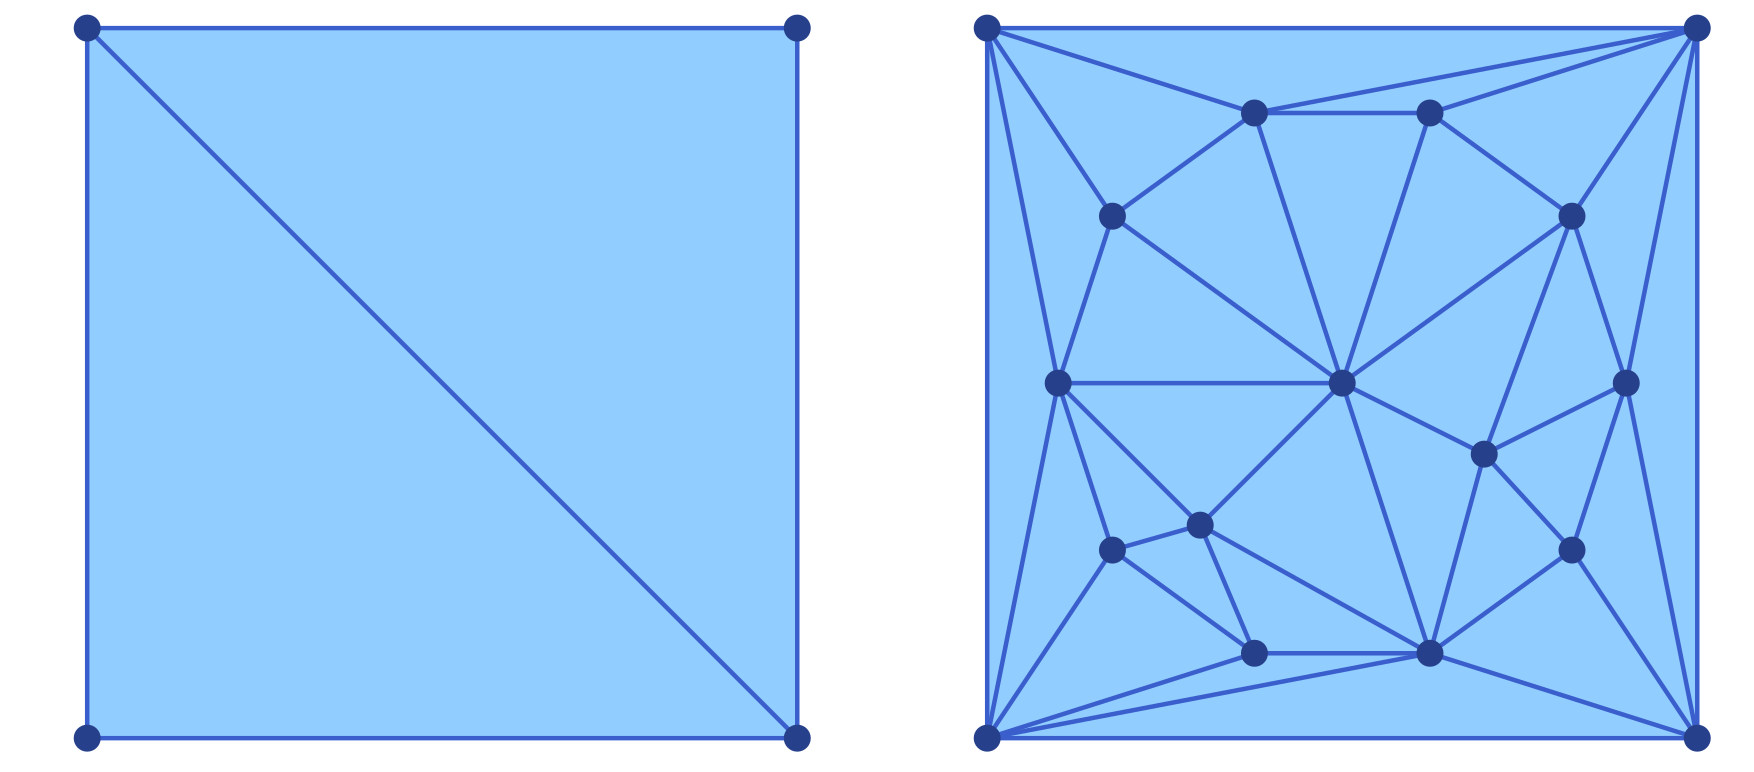
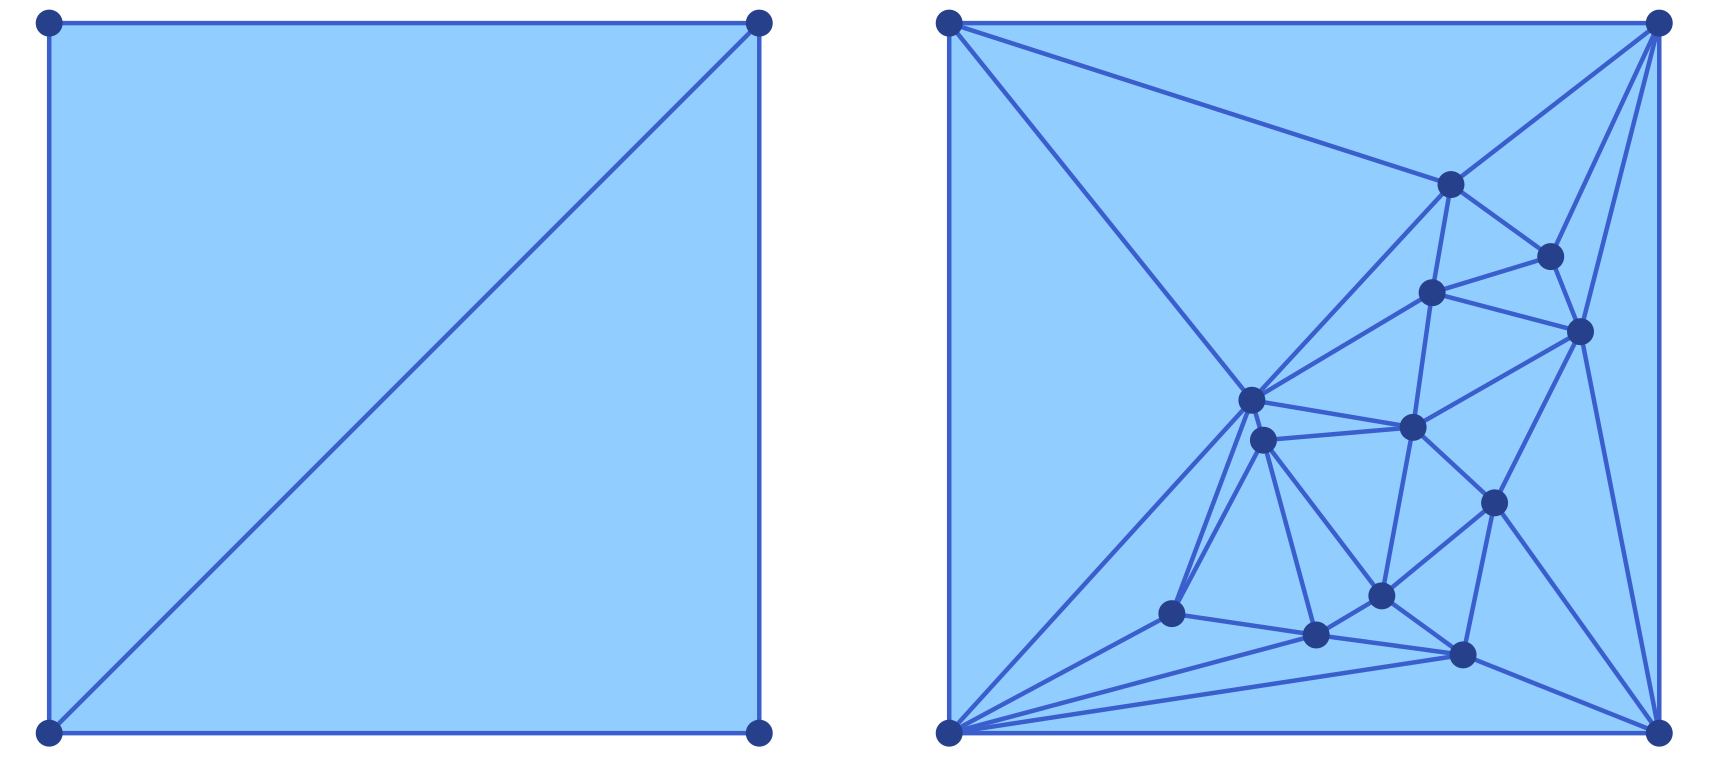
added delaunay_points_add_nodes

diff --git a/docs/src/man/extensions.md b/docs/src/man/extensions.md
@@ -42,8 +42,8 @@ using DelaunayTriangulation
 using ConleyDynamics
 
 points, bndcurve = delaunay_points_bnd_rectangle([-5, -5], [5, 5])
-tri = triangulate(points; boundary_nodes = bndcurve)
-sc  = delaunay_to_simplicial(tri)
+tri1 = triangulate(points; boundary_nodes = bndcurve)
+sc1  = delaunay_to_simplicial(tri1)
 ```
 
 This already produces a valid `EuclideanComplex` — a triangulated filled
@@ -51,6 +51,36 @@ rectangle without any internal constraints. It is shown in the left panel
 of the associated figure.
 
 ![Two sample Delaunay triangulations of a square](img/delaunayext1.png)
+
+### Adding Interior Nodes
+
+A finer triangulation of the underlying rectangle can be achieved by
+adding interior nodes to the list of points describing the boundary.
+This can be achieved with the function `delaunay_points_add_nodes`.
+For example, we can add twelve interior nodes to the above square
+using the following commands:
+
+```julia
+newpoints = [-4 .+ 8 .* rand(2) for k in 1:12]   # 12 random points
+points    = delaunay_points_add_nodes(points, newpoints)
+
+tri2 = triangulate(points; boundary_nodes = bndcurve)
+sc2  = delaunay_to_simplicial(tri2)
+```
+
+This leads to the triangulation shown in the right panel of the above
+figure. Note that the new triangulation makes use of all new interior
+nodes, as well as the corners of the squares. The figure was created
+using the commands
+
+```julia
+using Plots
+p1 = plot_simplicial(sc1)
+p2 = plot_simplicial(sc2)
+pcombined = plot(p1, p2, layout=(1,2))
+plot!(pcombined, dpi=300)
+savefig(pcombined, "delaunayext1.png")
+```
 
 ### Adding Constraint Curves
 
@@ -91,22 +121,77 @@ cut = [[-2.0, -2.0], [0.0, 0.0], [2.0, -1.0]]
 points, segments = delaunay_points_add_segment(points, circle)          # 2-arg form
 points, segments = delaunay_points_add_segment(points, segments, cut)   # 3-arg form
 
-tri = triangulate(points; boundary_nodes = bndcurve, segments = segments)
-sc  = delaunay_to_simplicial(tri)
+tri1 = triangulate(points; boundary_nodes = bndcurve, segments = segments)
+sc1  = delaunay_to_simplicial(tri1)
 ```
 
-The resulting triangulation is shown in the right panel of the above figure.
+![Delaunay triangulations with constraint curves](img/delaunayext2.png)
+
+The resulting Delaunay triangulation is shown in the left panel of the
+figure. In addition to the generated mesh, it also shows the two contraint 
+curves in red and green. This plot was generated using the following
+commands:
+
+```julia
+using Plots
+
+cirx = [pt[1] for pt in circle]
+ciry = [pt[2] for pt in circle]
+cutx = [pt[1] for pt in cut]
+cuty = [pt[2] for pt in cut]
+
+p1 = plot_simplicial(sc1)
+plot!(p1, cirx, ciry, linewidth=3, color=:red)
+plot!(p1, cutx, cuty, linewidth=3, color=:green)
+```
+
+We would like to point out that adding constraint curves to a triangulation
+has to be done with care. More precisely, it is up to the user to ensure
+that the **curves do not intersect each other** and that each curve is
+**without interior self-intersections**. If these assumptions are not
+satisfied, then
+[DelaunayTriangulation.jl](https://github.com/JuliaGeometry/DelaunayTriangulation.jl)
+will automatically remove some of the constraints. Consider for the
+example the following additional commands:
+
+```julia
+# Open polygonal cut inside the domain
+badcut = [[1.0, 1.0], [4.0, 4.0]]
+points, segments = delaunay_points_add_segment(points, segments, badcut)
+
+tri2 = triangulate(points; boundary_nodes = bndcurve, segments = segments)
+sc2  = delaunay_to_simplicial(tri2)
+
+badx = [pt[1] for pt in badcut]
+bady = [pt[2] for pt in badcut]
+
+p2 = plot_simplicial(sc2)
+plot!(p2, cirx, ciry, linewidth=3, color=:red)
+plot!(p2, cutx, cuty, linewidth=3, color=:green)
+plot!(p2, badx, bady, linewidth=2, color=:yellow, linestyle=:dash)
+
+pcombined12 = plot(p1, p2, layout=(1,2))
+plot!(pcombined12, dpi=300)
+savefig(pcombined12, "delaunayext2.png")
+```
+
+Clearly the added cut `badcut` intersects the circular constraint `circle`
+from before. The mesh generated by `DelaunayTriangulation.jl` is shown in
+the right panel of the above figure. Notice that the third constraint is
+not respected by the triangulation, even though the two vertices from
+the constraint have been added to the interior nodes.
 
 ### Mesh Refinement
 
-After `triangulate`, `DelaunayTriangulation.jl` provides `refine!` to
-improve triangle quality. Passing `max_area` as a fraction of the total
-domain area and `min_angle` in degrees is a practical starting point:
+After `triangulate`, `DelaunayTriangulation.jl` provides the function
+`refine!` to improve the quality of the triangulation. Passing `max_area`
+as a fraction of the total domain area and `min_angle` in degrees is a
+practical starting point:
 
 ```julia
-triarea = get_area(tri)
-refine!(tri; max_area = 0.01 * triarea, min_angle = 25.0)
-sc = delaunay_to_simplicial(tri)
+triarea1 = get_area(tri1)
+refine!(tri1; max_area = 0.03 * triarea1, min_angle = 30.0)
+sc3 = delaunay_to_simplicial(tri1)
 ```
 
 The refined triangulation is then converted to a `EuclideanComplex` in the
@@ -115,7 +200,36 @@ care. If one chooses an angle larger than `30` then it is no longer certain
 that an appropriate triangulation can be generated. The resulting triangulation
 is shown in the left panel of the next figure.
 
-![Two refined Delaunay triangulations of a square](img/delaunayext2.png)
+![Two refined Delaunay triangulations of a square](img/delaunayext3.png)
+
+We can also refine the second mesh from above, the one with the 
+bad constraint curve `badcut`:
+
+```julia
+triarea2 = get_area(tri2)
+refine!(tri2; max_area = 0.007 * triarea2, min_angle = 25.0)
+sc4 = delaunay_to_simplicial(tri2)
+```
+
+The resulting triangulation is shown in the right panel of the above figure.
+Notice that while the nodes determining `badcut` are still part of the
+triangulation, the edge is not -- just as before. The above figure
+was created using the following commands:
+
+```julia
+p3 = plot_simplicial(sc3)
+plot!(p3, cirx, ciry, linewidth=3, color=:red)
+plot!(p3, cutx, cuty, linewidth=3, color=:green)
+
+p4 = plot_simplicial(sc4)
+plot!(p4, cirx, ciry, linewidth=3, color=:red)
+plot!(p4, cutx, cuty, linewidth=3, color=:green)
+plot!(p4, badx, bady, linewidth=2, color=:yellow, linestyle=:dash)
+
+pcombined34 = plot(p3, p4, layout=(1,2))
+plot!(pcombined34, dpi=300)
+savefig(pcombined34, "delaunayext3.png")
+```
 
 ### Complete Example
 
@@ -123,32 +237,52 @@ The following self-contained snippet combines all three steps — bounding
 rectangle, two circular constraints, mesh refinement, and conversion:
 
 ```julia
+using Plots
 using DelaunayTriangulation
 using ConleyDynamics
 
 # Bounding box
 points, bndcurve = delaunay_points_bnd_rectangle([-5, -5], [5, 5])
 
-# Outer ring (closed, 50 segments)
-n1    = 50
+# Outer ring (closed, 30 segments)
+n1    = 30
 th1   = range(0, 2*pi, length = n1+1)
 ring  = [[4.0 * cos(t), 4.0 * sin(t)] for t in th1]
+ringx = [pt[1] for pt in ring]
+ringy = [pt[2] for pt in ring]
 points, segments = delaunay_points_add_segment(points, ring)
 
-# Inner elliptical disc (closed, 35 segments)
-n2    = 35
+# Inner elliptical disc (closed, 15 segments)
+n2    = 15
 th2   = range(0, 2*pi, length = n2+1)
 disc  = [[0.5 + 3.0 * cos(t), 2.0 * sin(t)] for t in th2]
+discx = [pt[1] for pt in disc]
+discy = [pt[2] for pt in disc]
 points, segments = delaunay_points_add_segment(points, segments, disc)
 
 # Triangulate, refine, and convert
 tri = triangulate(points; boundary_nodes = bndcurve, segments = segments)
+sc1 = delaunay_to_simplicial(tri)
+
 triarea = get_area(tri)
-refine!(tri; max_area = 0.05 * triarea, min_angle = 20.0)
-sc = delaunay_to_simplicial(tri)
+refine!(tri; max_area = 0.005 * triarea, min_angle = 27.0)
+sc2 = delaunay_to_simplicial(tri)
+
+# Plot the triangulations
+p1 = plot_simplicial(sc1)
+plot!(p1, ringx, ringy, color=:red)
+plot!(p1, discx, discy, color=:green)
+
+p2 = plot_simplicial(sc2)
+plot!(p2, ringx, ringy, color=:red)
+plot!(p2, discx, discy, color=:green)
+
+pcombined = plot(p1, p2, layout=(1,2))
+plot!(pcombined, dpi=300)
+savefig(pcombined, "delaunayext4.png")
 ```
 
-The resulting Delaunay triangulation is shown in the right panel of the above
-figure. Note that the constrained edges in this refinement are still clearly
-visible.
+The resulting Delaunay triangulations are shown in the next figure.
+
+![A complete Delaunay triangulation example](img/delaunayext4.png)
 

diff --git a/docs/src/apicore/extensions.md b/docs/src/apicore/extensions.md
@@ -7,6 +7,7 @@ loaded alongside `ConleyDynamics.jl`.
 
 ```@docs
 delaunay_points_bnd_rectangle
+delaunay_points_add_nodes
 delaunay_points_add_segment
 delaunay_to_simplicial
 ```